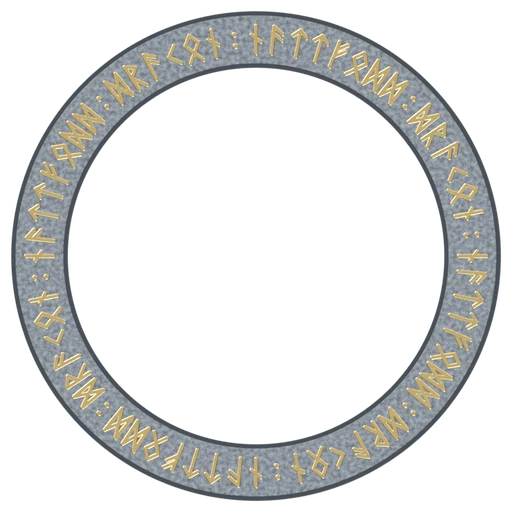
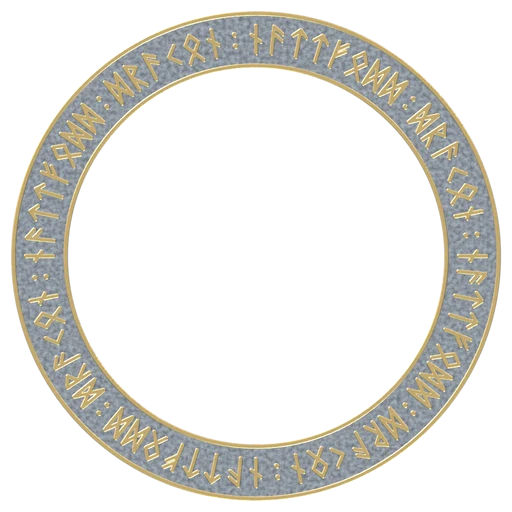
Gold edges by default, on the lit version and the static images
- js/lit.js: goldEdges on by default.
- render_frame_blender.py --gold-edges: the edge-lines mask (border-
  edges.png; the ring's lines) is raised metal like the runes, not a
  groove.
- images/rune-border.webp (gold on black slate, finished) and
  images/avatar-frame.webp (gold on slate) re-rendered with gold edges, so
  /static/ and no-JS visitors match; the playground's gold-blackslate
  variant too.

diff --git a/js/lit.js b/js/lit.js
@@ -50,7 +50,7 @@
     bump: 1.6,
     sparkle: 1.0,              // glints on the metal
     extreme: true,             // big, frequent, bright glints
-    goldEdges: false,          // the band's edge lines as raised gold inlay instead of grooves
+    goldEdges: true,           // the band's edge lines as raised gold inlay instead of grooves
     cursor: true,              // the mouse is a small light near the frame
     tilt: false,               // WASD tilts the card (debugging)
   };

diff --git a/scripts/render_frame_blender.py b/scripts/render_frame_blender.py
@@ -17,6 +17,7 @@ Options (all optional):
     --runes gold|silver|bronze|copper|iron|red   rune material (default gold)
     --rune-height 1.0             raised runes > 0, carved-in runes < 0
     --rune-roughness 0.45         metal roughness (default per metal; rougher reads brighter small)
+    --gold-edges                  the band's edge lines as raised metal too (not carved grooves)
     --stone slate|granite|sandstone|basalt|blackslate   stone colours (default slate)
     --hdri studio|forest|city|courtyard|interior|night|sunrise|sunset (default studio)
     --sun-azimuth 135             degrees, 0 = from the right, 90 = from the top
@@ -59,6 +60,8 @@ def parse_args():
     p.add_argument("--runes", default="gold", choices=list(METALS))
     p.add_argument("--rune-height", type=float, default=1.0)
     p.add_argument("--rune-roughness", type=float, help="override the metal's roughness (rougher = brighter when small)")
+    p.add_argument("--gold-edges", action="store_true",
+                   help="the band's edge lines as raised metal like the runes, not carved grooves")
     p.add_argument("--stone", default="slate", choices=list(STONES))
     p.add_argument("--hdri", default="studio")
     p.add_argument("--sun-azimuth", type=float, default=135)
@@ -114,6 +117,14 @@ def build_material(args):
     uv.location = (-1400, 0)
     get = lambda name, y: mask(nodes, links, uv, os.path.join(masks, f"{args.variant}-{name}.png"), -1100, y)
     shape, lines, runes = get("shape", 400), get("lines", 0), get("runes", -400)
+    if args.gold_edges:
+        # <variant>-edges.png (the band's edge lines without the grooves round the runes); the
+        # ring and serpent have no rune grooves, so their lines mask is all edges
+        name = "edges" if os.path.exists(os.path.join(masks, f"{args.variant}-edges.png")) else "lines"
+        edges = get(name, 800)
+        runes = math_node(nodes, links, "MAXIMUM", runes, edges, -950, -500)          # edges are metal
+        lines = math_node(nodes, links, "MULTIPLY", lines,
+                          math_node(nodes, links, "SUBTRACT", 1.0, edges, -950, 650), -850, 600)   # not grooves
 
     # Stone: two-tone grain, plus a little of it as surface relief. A <variant>-grain.png
     # (the border has one, stitched so its repeats join up) replaces Blender's noise.

diff --git a/README.md b/README.md
@@ -23,7 +23,8 @@ Lit render in Blender (Steam install), e.g. gold runes on slate:
 Options: `--variant plain|head`, `--runes gold|silver|bronze|copper|iron|red`,
 `--rune-height` (negative = carved in), `--stone slate|granite|sandstone|basalt`,
 `--hdri studio|forest|city|courtyard|interior|night|sunrise|sunset`,
-`--sun-azimuth`, `--sun-elevation`, `--sun-strength`, `--size`, `--samples`, `--out`.
+`--sun-azimuth`, `--sun-elevation`, `--sun-strength`, `--size`, `--samples`, `--out`,
+`--gold-edges` (the band's edge lines as raised metal, as the page uses).
 Renders go to `art/renders/` (not committed) with a transparent background.
 
 ## Rune border
